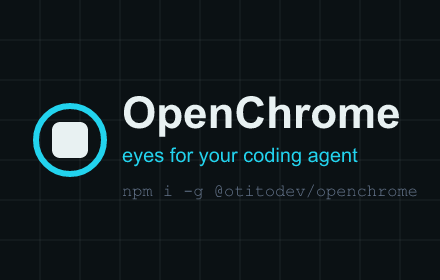
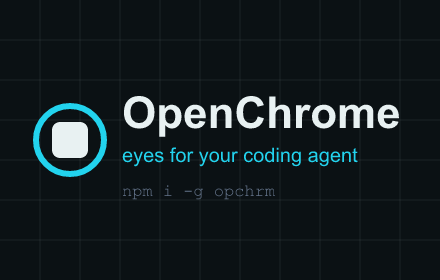
Rename package to opchrm with opc-family bins

Changed region(s): [[0.4727, 0.6571, 0.9455, 0.7143]]

diff --git a/apps/extension/popup.html b/apps/extension/popup.html
@@ -44,7 +44,7 @@ ul{list-style:none;margin:0;padding:0}
 <h1><img src="icons/icon48.png" alt="">OpenChrome</h1>
 <div class="status row"><span id="dot" class="dot"></span><span id="status">…</span></div>
 <div class="row" style="margin-top:6px">
-  <input id="token" placeholder="Paste oc_… token from openchrome init" aria-label="Pairing token">
+  <input id="token" placeholder="Paste oc_… token from opchrm init" aria-label="Pairing token">
 </div>
 <div class="actions" style="margin-top:6px">
   <button id="pair" class="primary">Pair</button>

diff --git a/apps/extension/popup.js b/apps/extension/popup.js
@@ -7,7 +7,7 @@ async function refresh() {
   const enabled = s.ocEnabled !== false;
   $("dot").className = "dot" + (paired && enabled ? " on" : "");
   $("status").textContent = !paired
-    ? "Not paired — paste token from openchrome init"
+    ? "Not paired — paste token from opchrm init"
     : enabled ? "Connected" : "Paused";
   $("toggle").textContent = enabled ? "Disable" : "Enable";
 

diff --git a/README.md b/README.md
@@ -11,20 +11,20 @@ Agent --MCP(stdio)--> openchrome-mcp --WS(127.0.0.1:18721)--> daemon <--WS--> Ch
 Requires Node.js 22+ and Chrome.
 
 ```bash
-npm install -g @otitodev/openchrome
-openchrome daemon        # start the local bridge (leave running)
+npm install -g opchrm
+opchrm daemon        # start the local bridge (leave running)
 ```
 
 Load the extension once: `chrome://extensions` → Developer mode → Load unpacked → select the `extension/` folder from this repo (or unzip `dist/openchrome-extension.zip`).
 
 ```bash
-openchrome init          # prints a pairing token
+opchrm init          # prints a pairing token
 ```
 
 Paste the token into the extension popup → Pair. Verify:
 
 ```bash
-openchrome status        # extensionConnected: true
+opchrm status        # extensionConnected: true
 ```
 
 ## Use with OpenCode

diff --git a/store/listing.md b/store/listing.md
@@ -17,7 +17,7 @@ The agent can list tabs, navigate, read pages, click buttons, fill forms, take s
 
 You stay in control: localhost is allowed by default, other sites ask for approval first, denied sites are hidden from the agent. Password fields and sensitive actions require explicit approval in the popup. Everything runs locally — the bridge binds to 127.0.0.1 only, and no browsing data ever leaves your machine.
 
-Requires the free OpenChrome command-line tools (`npm install -g @otitodev/openchrome`) which host the local bridge the extension pairs with.
+Requires the free command-line tools (`npm install -g opchrm`) which host the local bridge the extension pairs with.
 
 ## Category
 
